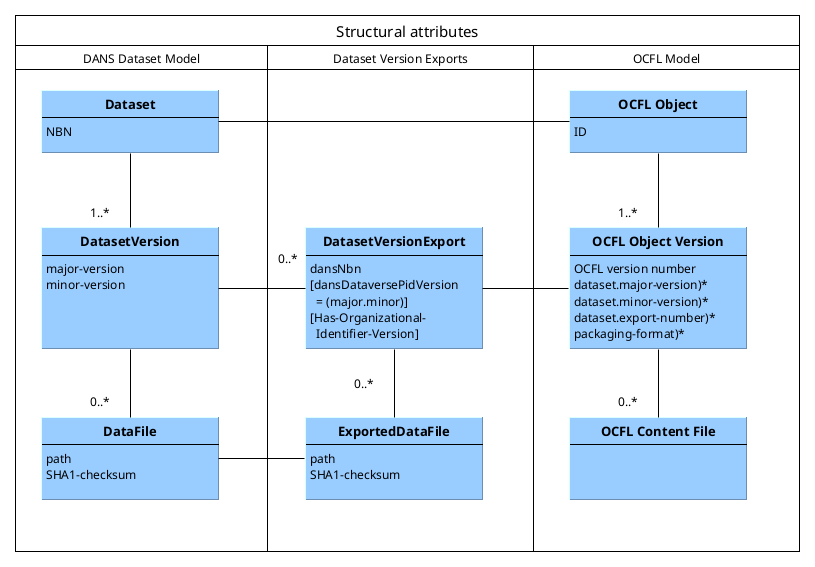
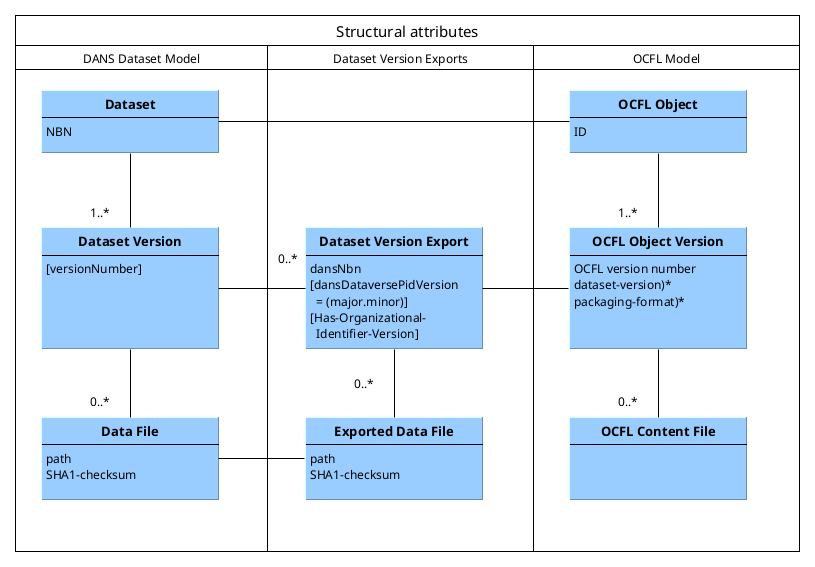
wip

diff --git a/docs/data-vault-storage-root.md b/docs/data-vault-storage-root.md
@@ -75,7 +75,6 @@ Object Version, with _n > 0_.
     be done by a superuser and is known as **"updatecurrent"**. A new Dataset Version Export will be created and therefore a new OCFL Object Version will be 
     created as well. The Data Station version history, however, will **not** display an additional version.
 
-
 [BagPack]: {{ bagpack_specs }}
 
 ### Structural attributes
@@ -99,24 +98,26 @@ window.addEventListener('load', function() {
 });
 </script>
 
-| Class                | Attribute                             | Description                                                                                                                          |
-|----------------------|---------------------------------------|--------------------------------------------------------------------------------------------------------------------------------------|
-| Dataset              | NBN                                   | The URN:NBN that uniquely identifies the dataset in the Vault. This identifier is assigned by DANS.                                  |
-| DatasetVersion       | major-version                         | The major version number of the dataset version.                                                                                     |
-| DatasetVersion       | minor-version                         | The minor version number of the dataset version.                                                                                     |
-| DataFile             | path                                  | The path relative to the dataset root.                                                                                               | 
-| DataFile             | SHA1-checksum                         | The SHA1 checksum of the data file.                                                                                                  |
-| DatasetVersionExport | dansNbn                               | The URN:NBN that uniquely identifies dataset in the Vault                                                                            |
-| DatasetVersionExport | dansDataversePidVersion               | The version number of the dataset as assigned by Dataverse. This consists of the major and minor version numbers separated by a dot. |
-| DatasetVersionExport | Has-Organizational-Identifier-Version | A version number assigned by the VaaS client.                                                                                        |
-| ExportedDataFile     | path                                  | The path relative to the dataset root.                                                                                               |
-| ExportedDataFile     | SHA1-checksum                         | The SHA1 checksum of the data file.                                                                                                  |
-| OCFL Object          | ID                                    | The OCFL object identifier.                                                                                                          |
-| OCFL Object Version  | OCFL version number                   | The OCFL version number. This is an integer starting from 1 and incremented by one for each version                                  |
-| OCFL Object Version  | dataset.major-version                 | Custom version property that - together with dataset.minor-version - documents the dataset version archived in this object version.  |
-| OCFL Object Version  | dataset.minor-version                 | Custom version property that - together with dataset.major-version - documents the dataset version archived in this object version.  |
-| OCFL Object Version  | dataset.export-number                 | Custom version property that documents how many times the same dataset version was archived before.                                  |
-| OCFL Object Version  | packaging-format                      | Custom version property that documents what specification the internal structure of this object version conforms to.                 |
+| Class                  | Attribute                             | Description                                                                                                                                                                |
+|------------------------|---------------------------------------|----------------------------------------------------------------------------------------------------------------------------------------------------------------------------|
+| Dataset                | NBN                                   | The URN:NBN that uniquely identifies the dataset in the Vault. This identifier is assigned by DANS.                                                                        |
+| Dataset Version        | versionNumber                         | A number or other identifier that records the version. In Dataverse this is a `major.minor` version number. For VaaS clients this can be anything and can even be omitted. |
+| Data File              | path                                  | The path relative to the dataset root.                                                                                                                                     | 
+| Data File              | SHA1-checksum                         | The SHA1 checksum of the data file.                                                                                                                                        |
+| Dataset Version Export | dansNbn                               | The URN:NBN that uniquely identifies the parent dataset in the Vault                                                                                                       |
+| Dataset Version Export | dansDataversePidVersion               | The version number of the dataset as assigned by Dataverse.                                                                                                                |
+| Dataset Version Export | Has-Organizational-Identifier-Version | A version number or other version identifier assigned by the VaaS client.                                                                                                  |
+| Exported Data File     | path                                  | The path relative to the dataset root.                                                                                                                                     |
+| Exported Data File     | SHA1-checksum                         | The SHA1 checksum of the data file.                                                                                                                                        |
+| OCFL Object            | ID                                    | The OCFL object identifier.                                                                                                                                                |
+| OCFL Object Version    | OCFL version number                   | The OCFL version number. This is an integer starting from 1 and incremented by one for each version                                                                        |
+| OCFL Object Version    | dataset-version                       | Custom version property that contains the value of either dansDataversePidVersion or Has-Organizational-Identifier-Version                                                 |
+| OCFL Object Version    | packaging-format                      | Custom version property that documents what specification the internal structure of this object version conforms to.                                                       |
+
+#### Remarks
+
+* `versionNumber` is optional for VaaS clients. However, not providing a value for `versionNumber` (through `Has-Organizational-Identifier-Version`) means that
+  it may be harder to correctly restore the version history later.
 
 ### Restoring datasets from the OCFL Storage Root
 
@@ -128,10 +129,10 @@ By restoring a dataset we mean:
 The process is as follows:
 
 1. Retrieve the OCFL-object with all its versions by URN:NBN.
-2. Determine the `dataset.major-version`, `dataset.minor-version` and `dataset.export-number` for each object version.
-3. If there are multiple candidates for a version, choose the one with the highest `dataset.export-number` (unless there are specific reasons to use an older
-   export).
-4. Retrieve the DVE from the content of each object version. The packaging format then determines how to extract the files and their dataset-relative filepath.
+2. Determine the `dataset-version` property for each object version.
+3. If there are multiple candidates for a version, choose the one with the highest OCFL version number, unless there is a specific reason to use an older
+   export.
+4. Retrieve the DVE from the content of each object version. The packaging format then determines how to extract the files and their dataset-relative filepaths.
 
 [bag]: {{ bagit_specs }}
 [Oxford Common File Layout]: {{ ocfl_url }}
@@ -139,7 +140,7 @@ The process is as follows:
 Serialization in layers
 -----------------------
 
-OCFL repositories can be serialized in different ways, for example as a directory structure on a file system, or as objects in an object store. The DANS Data
+OCFL repositories can be serialized in different ways, for example, as a directory structure on a file system, or as objects in an object store. The DANS Data
 Vault uses the SURF [Data Archive]{:target=_blank} tape storage. The tape storage system that is used by Data Archive organizes files in a file-folder
 structure, so in principle serialization should be the same as to a disk-based files system, from OCFL's perspective. However, the tape storage system requires
 a minimum file size of 1GB, which is much larger than the typical data file stored in the DANS Data Vault. To meet this requirement, the OCFL repositories are